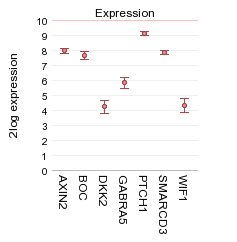
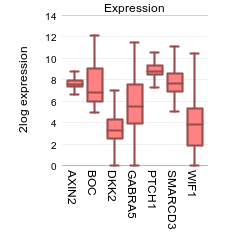
Hfst 4 Multiple Genes view adapted with extra options and updated graphs

diff --git a/docs/Multiple_Genes_View.md b/docs/Multiple_Genes_View.md
@@ -33,7 +33,7 @@ Step 1: Viewing multiple genes
     Medulloblastoma PLoS One - Kool - 62 - MAS5.0 - u133p2" dataset in
     field 2.
 2.  Choose "View multiple genes " in field 3 and Click Next
-3.  To illustrate the possibilities of the multiple gene view. Genes
+3.  To illustrate the possibilities of the multiple gene view, genes
     identified as classifiers for Medulloblastoma subtypes (Kool et al,
     Plos one) will be used. In the GENE/reporter textbox type or copy
     the following genes: AXIN2,BOC,dkk2,GABRA5,PTCH1,SMARCD3,WIF1
@@ -43,39 +43,55 @@ Step 1: Viewing multiple genes
 	
 	[**Figure    1: Default multiple geneview.**](_static/images/MultipleGenesView_Default.png)
 	
-
+4.  Under the graph many settings can be adjusted in the Adjustable settings box. For instance,
+you can choose a different type of graph. You can add one or more extra spaces between genes of choice by adding an extra delimiter. 
+In the GENE/reporter textbox add 2 extra comma's behind dkk2 (AXIN2,BOC,dkk2,,,GABRA5,PTCH1,SMARCD3,WIF1); 
+in the field 'Plot type' select "Average with stderr", set 'Transform' to  and click next.
+    ![](_static/images/MultipleGenesView_ExtraSpacer.png "Figure    2: Add a spacer between genes")
+    	
+    [**Figure    2: Add a spacer between genes**](_static/images/MultipleGenesView_ExtraSpacer.png)
+    	
+  
 Step 2: Viewing multiple genes through track annotation
 ---------------
 
-1.  In Figure 1 a selection of gene expression profiles are depicted in
+1.  In Figure 1 a selection of gene expression profiles is depicted in
     one picture in contrast to the one gene view. The multiple gene view
     enables the option to represent the gene expression separately for
-    each track. In this manner potential relations between subgroups and
+    each subgroup of a categorical track. In this manner potential relations between subgroups and
     gene expression can be visualized.
 2.  The dataset we are using is described in
     [PLoS One.](http://www.ncbi.nlm.nih.gov/pubmed/18769486)"2008
     Aug 28;3(8), Kool M et al. Here the classification of 5
     medulloblastoma subgroups are reported and annotated as such:
     A,B,C,D and E. To investigate the expression levels of a small group
-    of genes per sub-category select in the adjustable settings box
-    "subtype (cat)" at use track, "lump by group plot gene" at handle
-    groups by and "Track" at color by track. Further set transform tot
+    of genes per sub-category, select in the adjustable settings box
+    "subtype (5 cat)" at use track, "lump by group plot gene" at handle
+    groups by and "Track" at color by track. Further set transform to
     "none", select "boxplot" at Plot type and click NEXT.
 
-	![](_static/images/MultipleGenesView_perTrack_v1.png "Figure    2: Multiple gene view per track.")
+	![](_static/images/MultipleGenesView_perTrack.png "Figure    3: Multiple gene view per subgroup")
 	
-	[**Figure    2: Multiple gene view per track.**](_static/images/MultipleGenesView_perTrack_v1.png)
+	[**Figure    3: Multiple gene view per subgroup**](_static/images/MultipleGenesView_perTrack.png)
 	
 
 
-1.  Most of the used genes are part of the WNT (subgroup A) and de SHH
-    (subgroup B) signaling pathway overexpressed per subtype as shown by
-    Kool et al. These genes are overexpressed in different
-    Medulloblastoma molecular subtypes a,b,c,d and e are plotted
-    together with the gene names. s
-2.  Also try the "lump by gene plot group" which will produce an image
-    where the genes are shown, separated by the subtypes.
-3.  The sample filter option allows the user to generate a multiple gene
+3.  Most of the overexpressed genes are part of the WNT (subgroup A) and de SHH
+    (subgroup B) signaling pathway as shown by Kool et al.  
+    In Figure 2, the gene names and the subtype labels a,b,c,d and e are concatenated on the x-axis. 
+    The Medulloblastoma molecular subtypes clearly show different expression profiles, with an overexpression of genes 
+    in subgroup a and b. 
+4.  Also try the "lump by gene plot group" which will produce an image
+    where the genes are shown, separated by the subtypes. The "group by panel" option under 'handle groups by'
+    will display the same information in a multifaceted graph with separated panels per sub-group of the chosen track. 
+    
+	![](_static/images/MultipleGenesView_perTrack_v1.png "Figure    4: Multiple gene view, panel per subgroup")
+	
+	[**Figure    4: Multiple gene view, panel per subgroup**](_static/images/MultipleGenesView_perTrack_v1.png)
+	
+
+
+5.  The sample filter option allows the user to generate a multiple gene
     view per track.
 
 

diff --git a/docs/Annotation_Analyses.md b/docs/Annotation_Analyses.md
@@ -86,7 +86,7 @@ Step 1: Relating 2 (categorical) tracks
 	
 	[**Figure3: Color samples by track**](_static/images/AnnotationAnalyses_colorsamples.png)
 	
-
+5. Another way to present the absolute or relative shares of grouped variables is   
 
 
 
